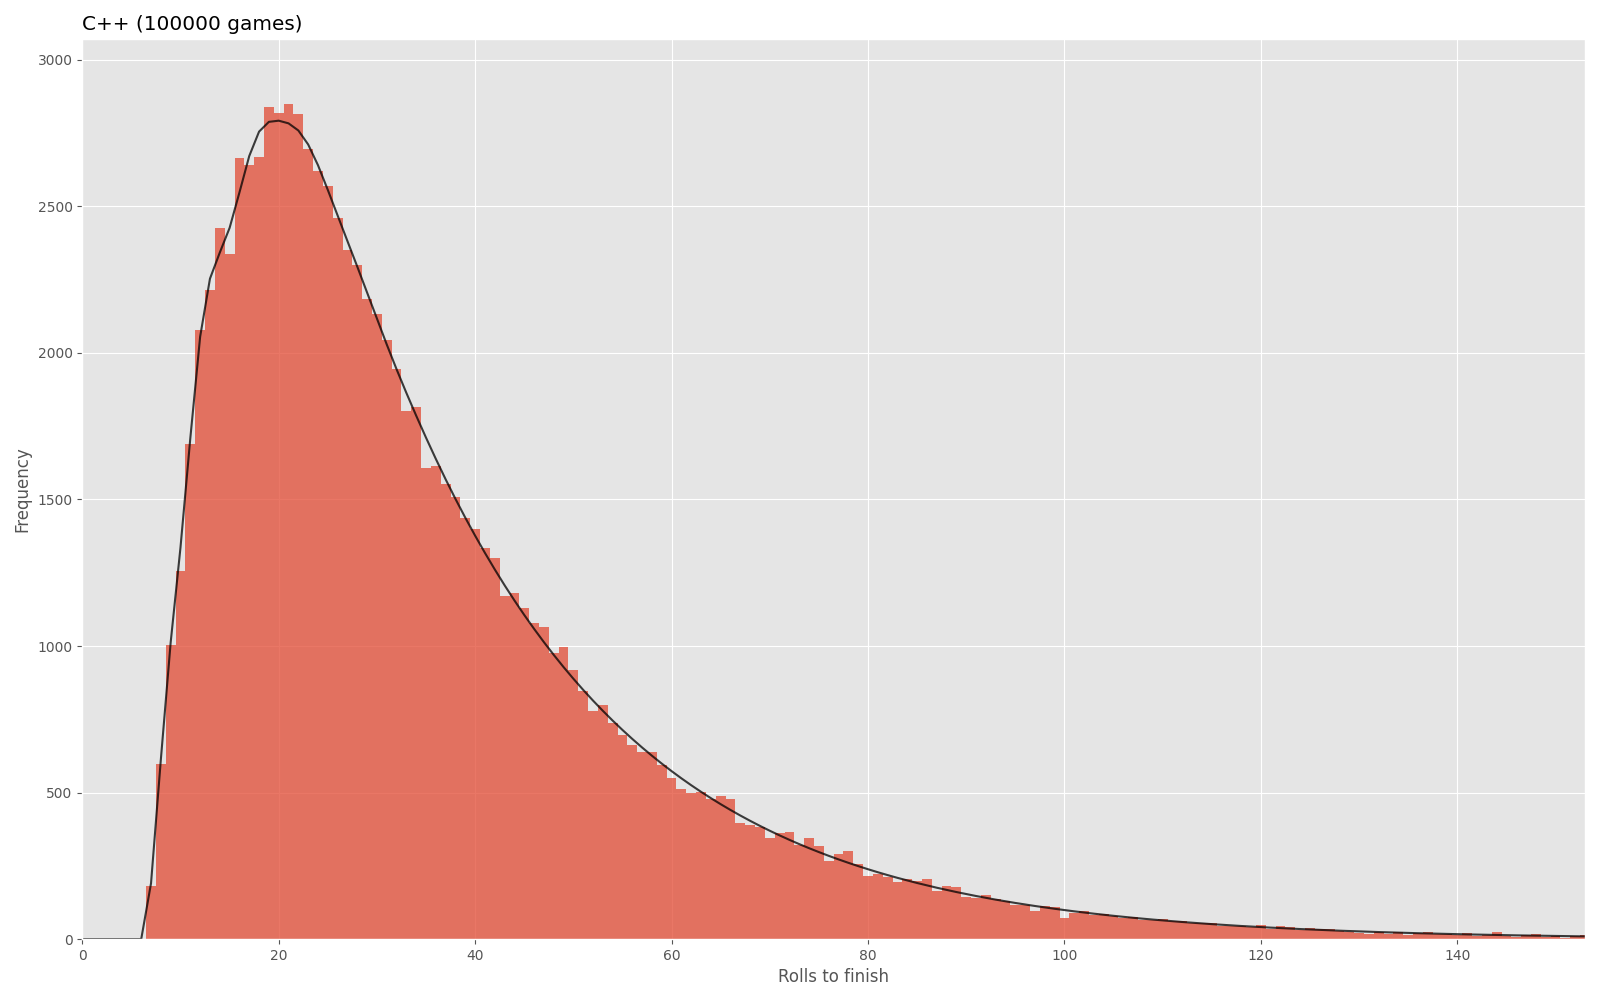
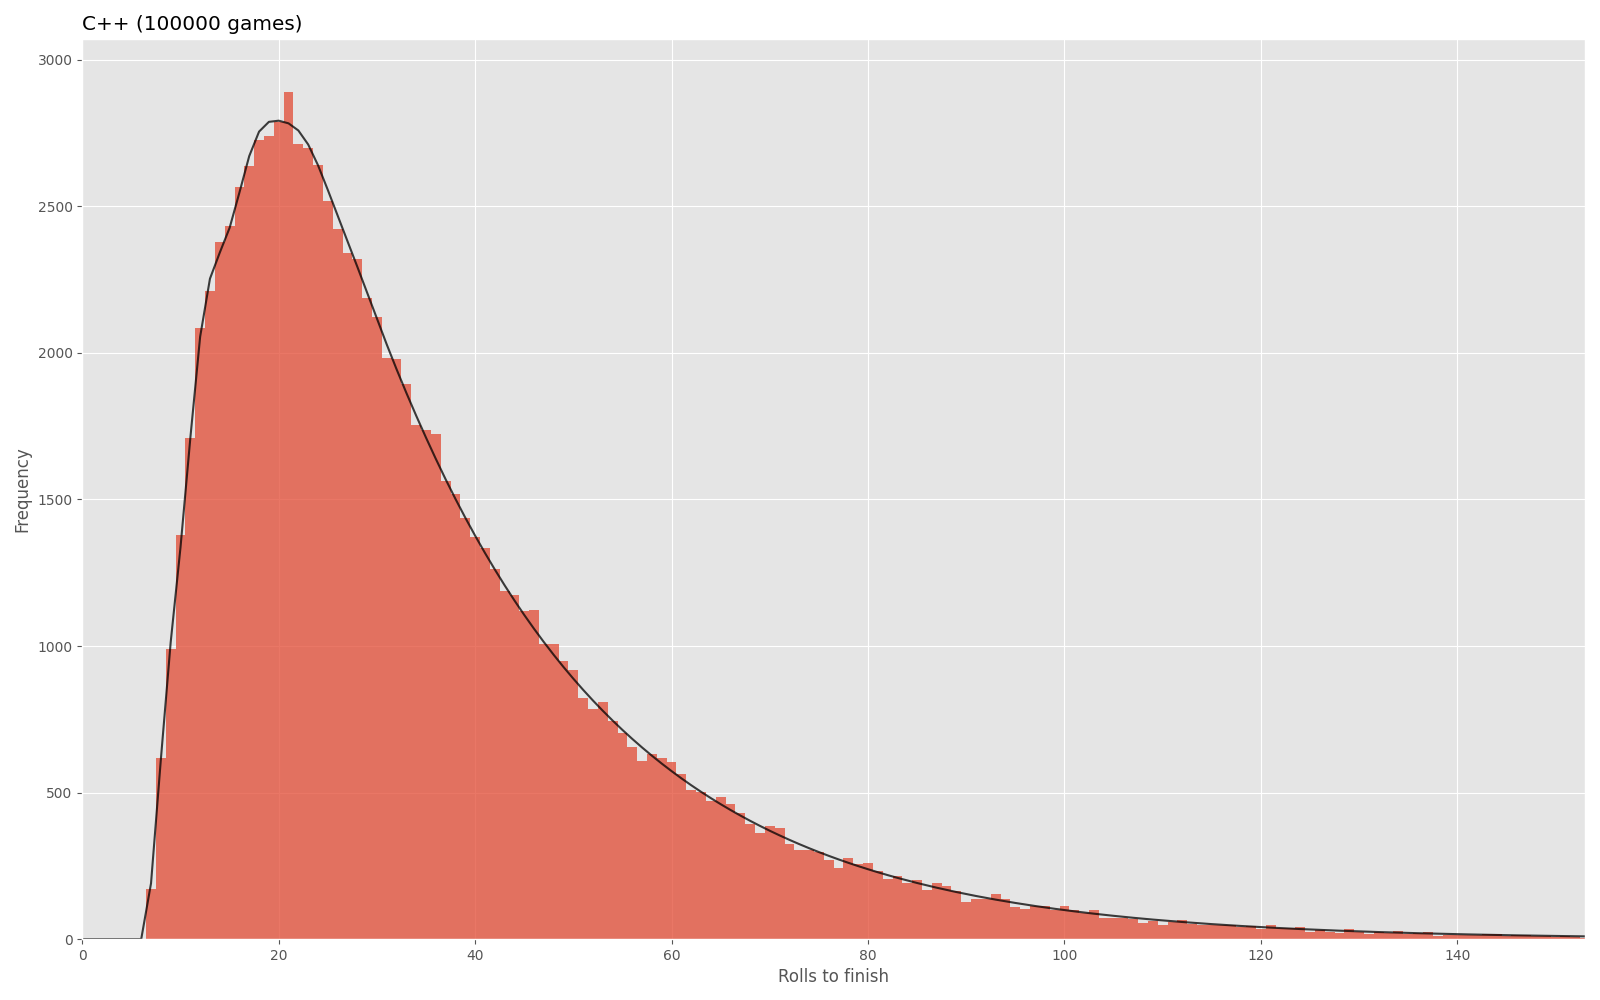
Placate mypy

diff --git a/utils.py b/utils.py
@@ -2,9 +2,7 @@ import numpy as np
 import matplotlib.pyplot as plt
 from collections import Counter
 
-
-from multigame import simulate_multigame_pyx
-# from multigame import py_simulate_multigame
+from multigame import simulate_multigame_pyx  # type: ignore[import-not-found]
 
 rng = np.random.default_rng(seed=42)
 
@@ -20,7 +18,7 @@ def simulate_game(size: int, jumps: dict[int, int]) -> int:
         throws += 1
 
         # Roll dice
-        position = position + rng.integers(1,7)
+        position = position + int(rng.integers(1,7))
         
         # Apply snakes & ladders
         position = jumps.get(position, position)
@@ -65,7 +63,7 @@ def finish_prob(m_markov: np.ndarray, n: int) -> float:
 
     final_state = np.linalg.matrix_power(m_markov, n) @ initial_state
 
-    return final_state[-1]
+    return float(final_state[-1])
 
 def simulate_multigame_py(size: int, jumps: dict[int, int], tot_games: int) -> list[int]:
 
@@ -98,7 +96,7 @@ def calc_cumulative_prob(m_markov: np.ndarray, threshold: float = 1.0 - 1e-9) ->
 
     cum_prob = []
     n = 0
-    p = 0
+    p = 0.0
 
     while p < threshold:
         p = finish_prob(m_markov, n)